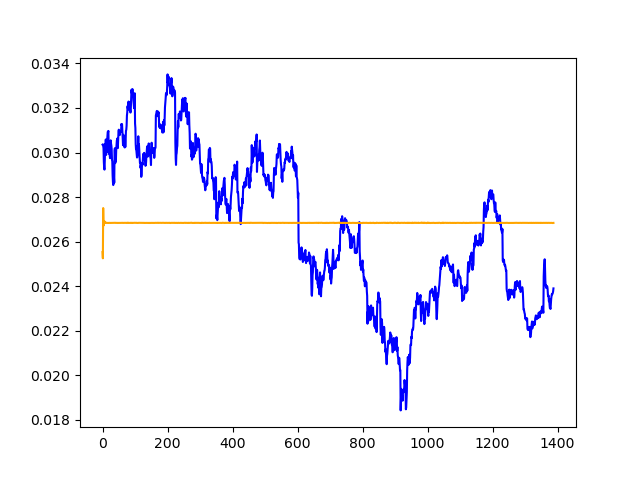
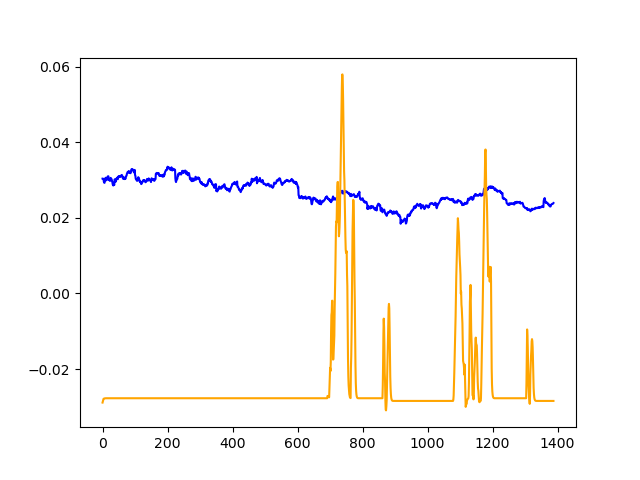
remove transformer layer

diff --git a/code/model.py b/code/model.py
@@ -200,39 +200,28 @@ class Conv2dReLU(nn.Sequential):
 class Extractor(nn.Module):
     def __init__(self, in_channels, out_channels,  use_batchnorm=True, maxpool=True):
         super().__init__()
-        # self.maxpool_conv = nn.Sequential(
-        #     Conv2dReLU(
-        #         in_channels,
-        #         out_channels,
-        #         kernel_size=(2, 50),
-        #         padding=0,
-        #         use_batchnorm=use_batchnorm,
-        #     ),
-        #     nn.AvgPool2d((1, 2)) if maxpool else Identity(),
-        #     Conv2dReLU(
-        #         out_channels,
-        #         out_channels,
-        #         kernel_size=(2, 50),
-        #         padding=0,
-        #         use_batchnorm=use_batchnorm,
-        #     )
-        # )
-        self.transformer = nn.Transformer(
-            d_model=4, nhead=2, num_encoder_layers=6)
+        self.maxpool_conv = nn.Sequential(
+            Conv2dReLU(
+                in_channels,
+                out_channels,
+                kernel_size=(2, 50),
+                padding=0,
+                use_batchnorm=use_batchnorm,
+            ),
+            nn.AvgPool2d((1, 2)) if maxpool else Identity(),
+            Conv2dReLU(
+                out_channels,
+                out_channels,
+                kernel_size=(2, 50),
+                padding=0,
+                use_batchnorm=use_batchnorm,
+            )
+        )
+        # self.transformer = nn.Transformer(
+        #     d_model=4, nhead=2, num_encoder_layers=6)
 
     def forward(self, x):
-        # transformer no need channel
-        x = x.squeeze(dim=1)
-
-        # transformer batch is second
-        x = torch.movedim(x, -1, 0)
-
-        x = self.transformer.encoder(x)
-
-        # # transformer batch is second
-        x = torch.movedim(x, 0, 1)
-
-        return x
+        return self.maxpool_conv(x)
 
 
 class Decoder(nn.Module):
@@ -241,10 +230,10 @@ class Decoder(nn.Module):
 
         # self.rnn = nn.LSTM(input_size=input_size, hidden_size=hidden_size,
         #                    num_layers=num_layers, batch_first=True)
-        self.transformer = nn.Transformer(
-            d_model=4, nhead=2, num_encoder_layers=6)
+        # self.transformer = nn.Transformer(
+        #     d_model=4, nhead=2, num_encoder_layers=6)
         self.linear1 = nn.Linear(
-            in_features=400, out_features=hidden_size//2, bias=True)
+            in_features=4, out_features=hidden_size//2, bias=True)
         self.linear2 = nn.Linear(
             in_features=hidden_size//2, out_features=classes, bias=True)
         self.flatten = nn.Flatten(1)
@@ -286,6 +275,6 @@ class Model(nn.Module):
 
         latent = self.encoder(x)
         # uncomment when encoder is cnn
-        # latent = torch.transpose(latent, 2, 3)
-        # latent = torch.squeeze(latent, 1)
+        latent = torch.transpose(latent, 2, 3)
+        latent = torch.squeeze(latent, 1)
         return latent, self.decoder(latent)

diff --git a/training.py b/training.py
@@ -20,8 +20,8 @@ root = os.getcwd()
 batch = 32
 forecast = 10
 samples = 50
-device = torch.device("cuda:0" if torch.cuda.is_available() else "cpu")
-# device = "cpu"
+# device = torch.device("cuda:0" if torch.cuda.is_available() else "cpu")
+device = "cpu"
 
 datetime = datetime.strftime(datetime.now(), "%Y-%m-%d_%H-%M")
 

diff --git a/test.py b/test.py
@@ -91,7 +91,7 @@ if __name__ == '__main__':
     print(x.shape, y.shape)
 
     # load path
-    model_path = 'code/2021-04-12_17-14_last.pth'
+    model_path = 'code/2021-04-12_17-27_last.pth'
 
     encoder = model.Extractor(in_channels=1, out_channels=1,
                               use_batchnorm=True, maxpool=False)
